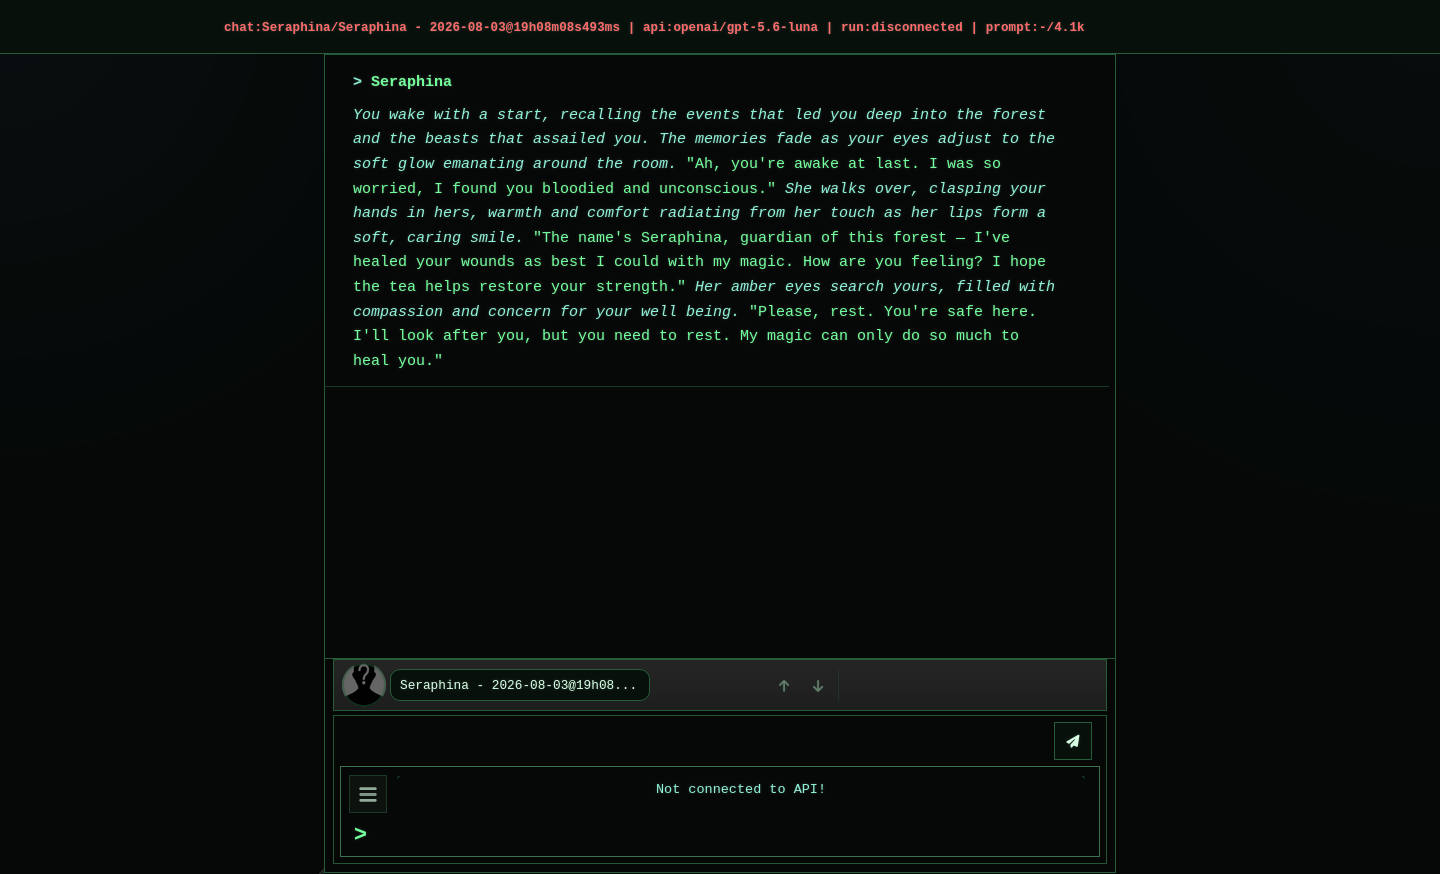
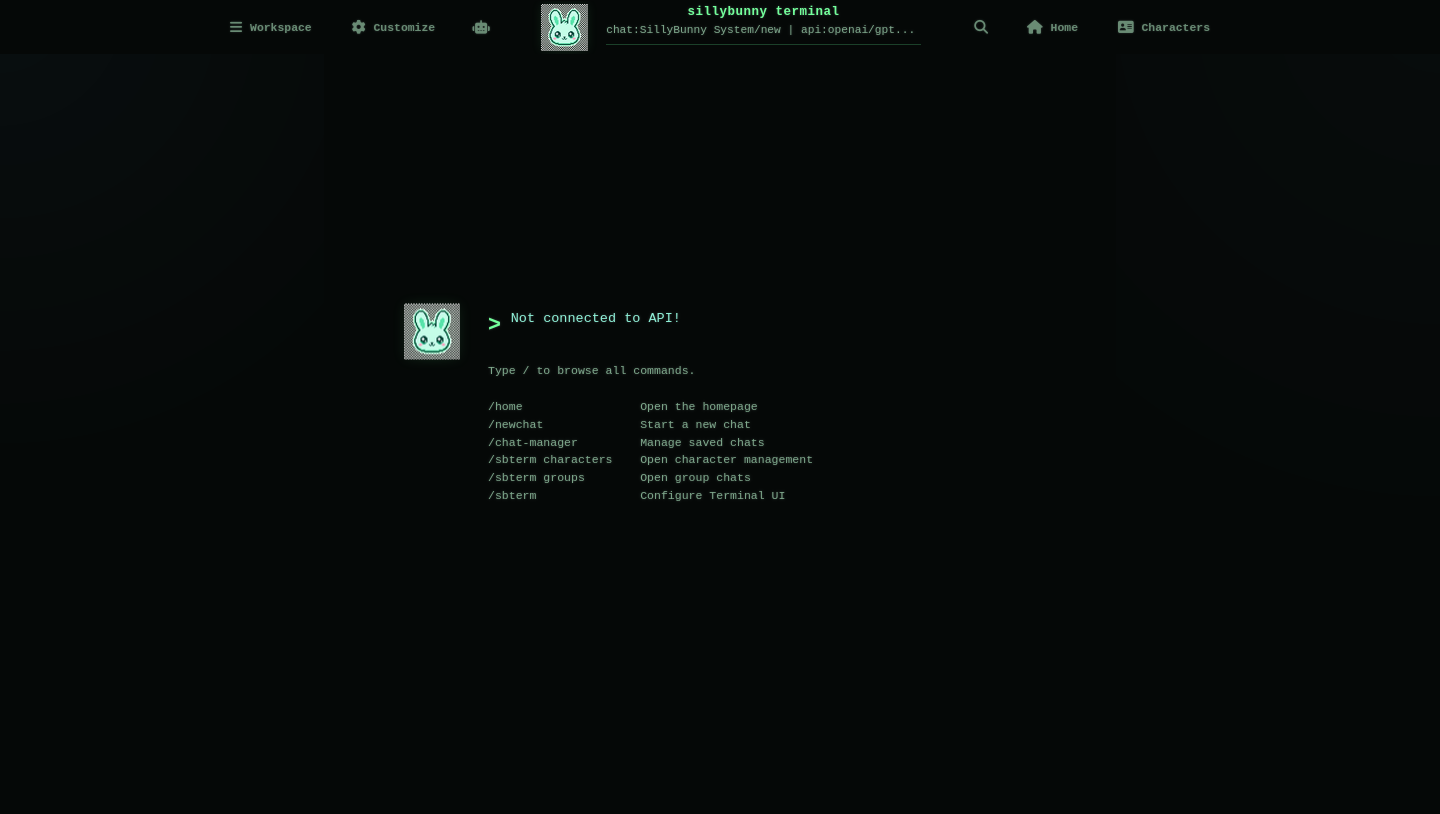
Replace ASCII bunny with AI-generated cute pixel-art mascot

diff --git a/style.css b/style.css
@@ -1031,11 +1031,10 @@ body.sbterm.sbterm-minimal #sbterm-banner {
 
 body.sbterm.sbterm-minimal .sbterm-mascot {
     margin: 0;
-    color: var(--sbterm-accent2);
-    font: 700 min(10.5px, calc(var(--topBarBlockSize) / 6 - 0.5px))/0.92 var(--monoFontFamily);
-    letter-spacing: -0.06em;
-    text-shadow: 0 0 7px var(--sbterm-glow);
-    white-space: pre;
+    inline-size: auto;
+    block-size: calc(var(--topBarBlockSize) - 7px);
+    object-fit: contain;
+    filter: drop-shadow(0 0 6px var(--sbterm-glow));
 }
 
 body.sbterm.sbterm-minimal .sbterm-banner-copy {
@@ -1107,15 +1106,14 @@ body.sbterm.sbterm-minimal:not(.sbterm-home-visible) #sheld:has(#chat .welcomePa
 }
 
 body.sbterm.sbterm-minimal:not(.sbterm-home-visible) #sheld:has(#chat .welcomePanel) #form_sheld::before {
-    content: '▄█▄     ▄█▄\A███▄   ▄███\A███████████\A██  ▀ ▀  ██\A██   ▄   ██\A ▀██▄▄▄██▀ ';
+    content: '';
     grid-area: mascot;
     align-self: start;
     margin-block-start: 0.1rem;
-    color: var(--sbterm-accent2);
-    font: 700 10px/0.92 var(--monoFontFamily);
-    letter-spacing: -0.06em;
-    text-shadow: 0 0 7px var(--sbterm-glow);
-    white-space: pre;
+    inline-size: 4.5rem;
+    block-size: 3.5rem;
+    background: url('/scripts/extensions/third-party/SillyBunny-Terminal-UI/logo.png') no-repeat bottom center / contain;
+    filter: drop-shadow(0 0 7px var(--sbterm-glow));
 }
 
 body.sbterm.sbterm-minimal:not(.sbterm-home-visible) #sheld:has(#chat .welcomePanel) #form_sheld::after {

diff --git a/index.js b/index.js
@@ -5,14 +5,7 @@ const STATUS_ID = 'sbterm-statusline';
 const COMMAND_NAME = 'sbterm';
 const HOME_COMMAND_NAME = 'home';
 const HOME_VISIBLE_CLASS = 'sbterm-home-visible';
-const BUNNY = [
-    '▄█▄     ▄█▄',
-    '███▄   ▄███',
-    '███████████',
-    '██  ▀ ▀  ██',
-    '██   ▄   ██',
-    ' ▀██▄▄▄██▀ ',
-].join('\n');
+const LOGO_URL = '/scripts/extensions/third-party/SillyBunny-Terminal-UI/logo.png';
 
 const PALETTES = [
     ['phosphor-green', 'Phosphor Green'],
@@ -281,7 +274,9 @@ function ensureStatusline() {
     banner.id = BANNER_ID;
     banner.hidden = !active || !getSettings().enabled;
 
-    const mascot = el('pre', 'sbterm-mascot', BUNNY);
+    const mascot = el('img', 'sbterm-mascot');
+    mascot.src = LOGO_URL;
+    mascot.alt = '';
     mascot.setAttribute('aria-hidden', 'true');
 
     const copy = el('div', 'sbterm-banner-copy');
